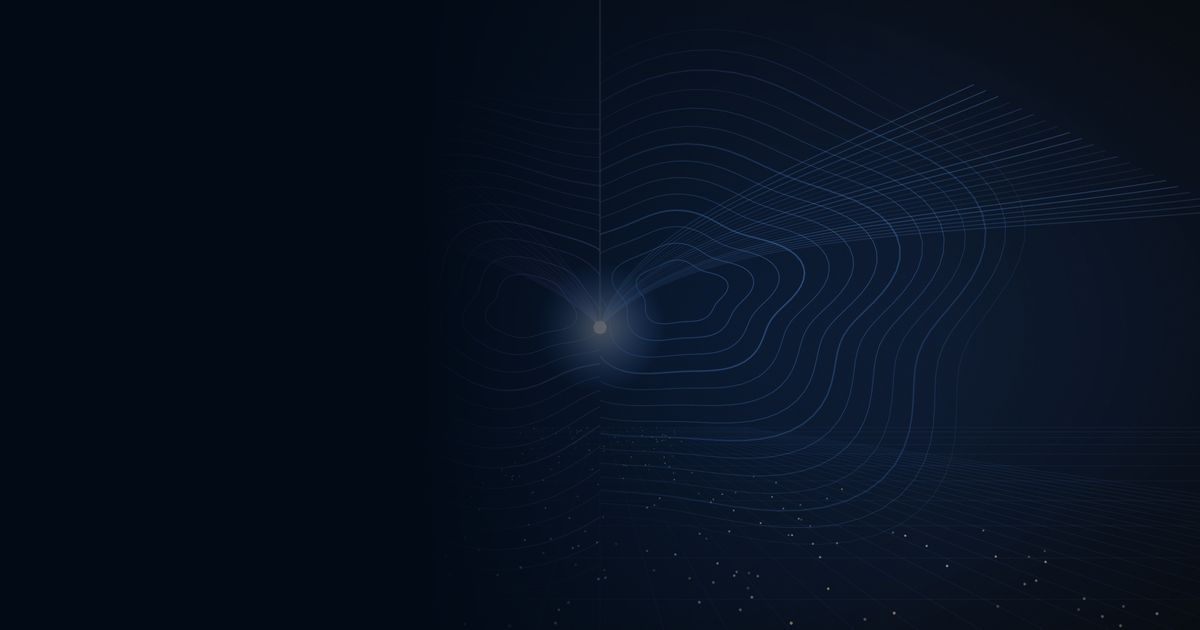
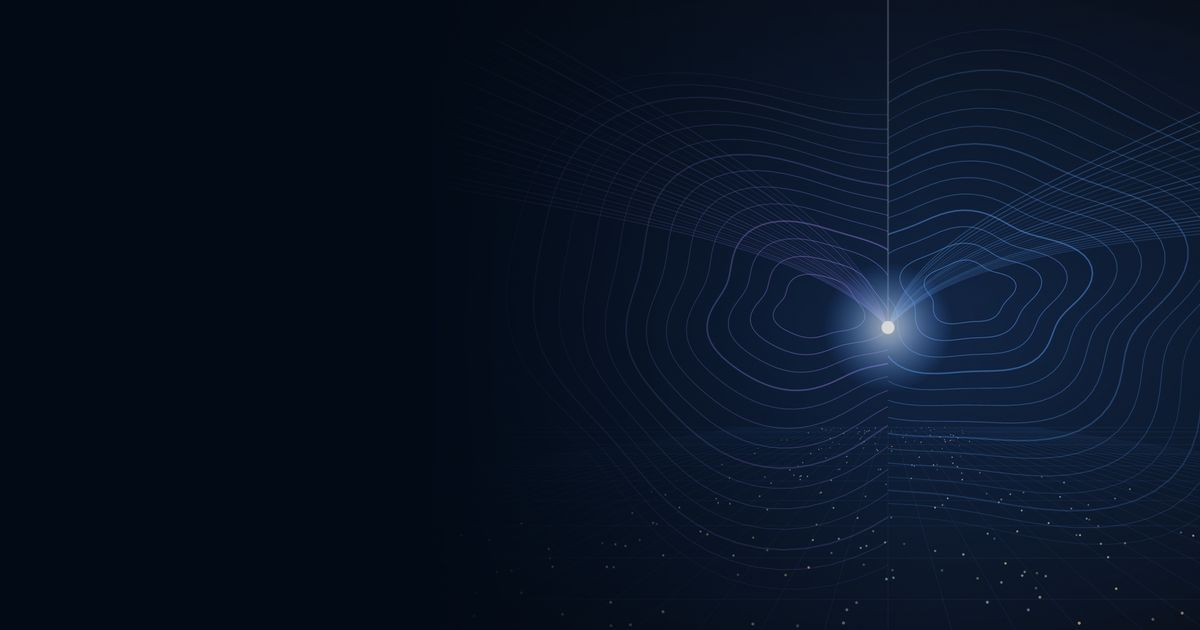
Insights art: shift two-guidance social crop right of the text column; version-keyed story card URLs

diff --git a/workers/pbe-predictions/src/insights/images.js b/workers/pbe-predictions/src/insights/images.js
@@ -3,6 +3,8 @@
 // under /images/insights/<key>/<version>/ (masters kept in images/insights/_masters, not deployed).
 import { SITE } from '../pages.js';
 
+// Bump ART_REV when derivatives change without a new image_version (busts edge and social caches).
+export const ART_REV = '2';
 export const IMAGE_CREDIT = 'Original illustration © PropBetEdge Predictions (code-generated editorial art)';
 
 const CATEGORY_ART = {
@@ -25,8 +27,8 @@ export function storyImage(story) {
     hero_image: `${base}/hero-1600.jpg`,
     hero_alt: img.alt,
     hero_focal_point: img.focal,
-    og_image: `${SITE}/og/insights/${story.slug}.png`,
-    og_background: `${SITE}${base}/og-bg.jpg`,
+    og_image: `${SITE}/og/insights/${story.slug}.png?v=${img.version}.${ART_REV}`,
+    og_background: `${SITE}${base}/og-bg.jpg?r=${ART_REV}`,
     image_credit: IMAGE_CREDIT,
     image_version: img.version,
     schema: [[`${base}/hero-1600.jpg`, 1600, 900], [`${base}/card-1200.jpg`, 1200, 900], [`${base}/square-1080.jpg`, 1080, 1080]],

diff --git a/workers/pbe-predictions/src/insights/render.js b/workers/pbe-predictions/src/insights/render.js
@@ -9,7 +9,7 @@ const sign = (n) => (n > 0 ? `+${n}` : n < 0 ? `−${Math.abs(n)}` : '0');
 const longDate = (iso) => new Date(iso).toLocaleString('en-US', { month: 'long', day: 'numeric', year: 'numeric', hour: '2-digit', minute: '2-digit', hour12: false, timeZone: 'UTC' }) + ' UTC';
 const shortDate = (iso) => new Date(iso).toLocaleDateString('en-US', { month: 'short', day: 'numeric', year: 'numeric', timeZone: 'UTC' });
 export const storyUrl = (st) => `${SITE}/insights/${st.slug}`;
-export const storyImageUrl = (st) => `${SITE}/og/insights/${st.slug}.png`;
+export const storyImageUrl = (st) => storyImage(st).og_image;
 const AUTHOR = { '@type': 'Organization', '@id': `${SITE}/insights/#desk`, name: 'PropBetEdge Predictions Desk', url: `${SITE}/insights/` };
 
 // Abstract editorial textures per vertical (decorative only — never shaped like data).

diff --git a/scripts/brand/editorial-derivatives.py b/scripts/brand/editorial-derivatives.py
@@ -11,6 +11,8 @@ FOCAL = {  # (x, y) as fractions of the master; crops keep this point in frame
     'category-space': (0.5, 0.55), 'category-public-health': (0.55, 0.5), 'category-energy': (0.5, 0.5), 'category-business': (0.5, 0.6),
 }
 
+OG_SHIFT = {'two-guidance': 0.24}
+
 def grain(im, amount=5, seed=7):
     random.seed(seed)
     noise = Image.effect_noise(im.size, 18).convert('L')
@@ -55,6 +57,8 @@ for key, focal in FOCAL.items():
     mob = crop(m, 4 / 5, focal)
     for w in (640, 960): rep[f'mobile-{w}'] = save(mob, f'{d}/mobile', w)
     og = crop(m, 1200 / 630, focal).resize((1200, 630), Image.LANCZOS)
+    if key in OG_SHIFT:  # move the subject right of the card's text column (left side becomes navy)
+        dx = round(OG_SHIFT[key] * 1200); shifted = Image.new('RGB', og.size, (2, 10, 22)); shifted.paste(og.crop((0, 0, 1200 - dx, 630)), (dx, 0)); og = shifted
     og.save(f'{d}/og.jpg', 'JPEG', quality=86, optimize=True, progressive=True)
     # social-card background: same crop, darkened on the left where the card's frozen overlay text sits
     shade = Image.new('L', og.size, 0); dr = ImageDraw.Draw(shade)
